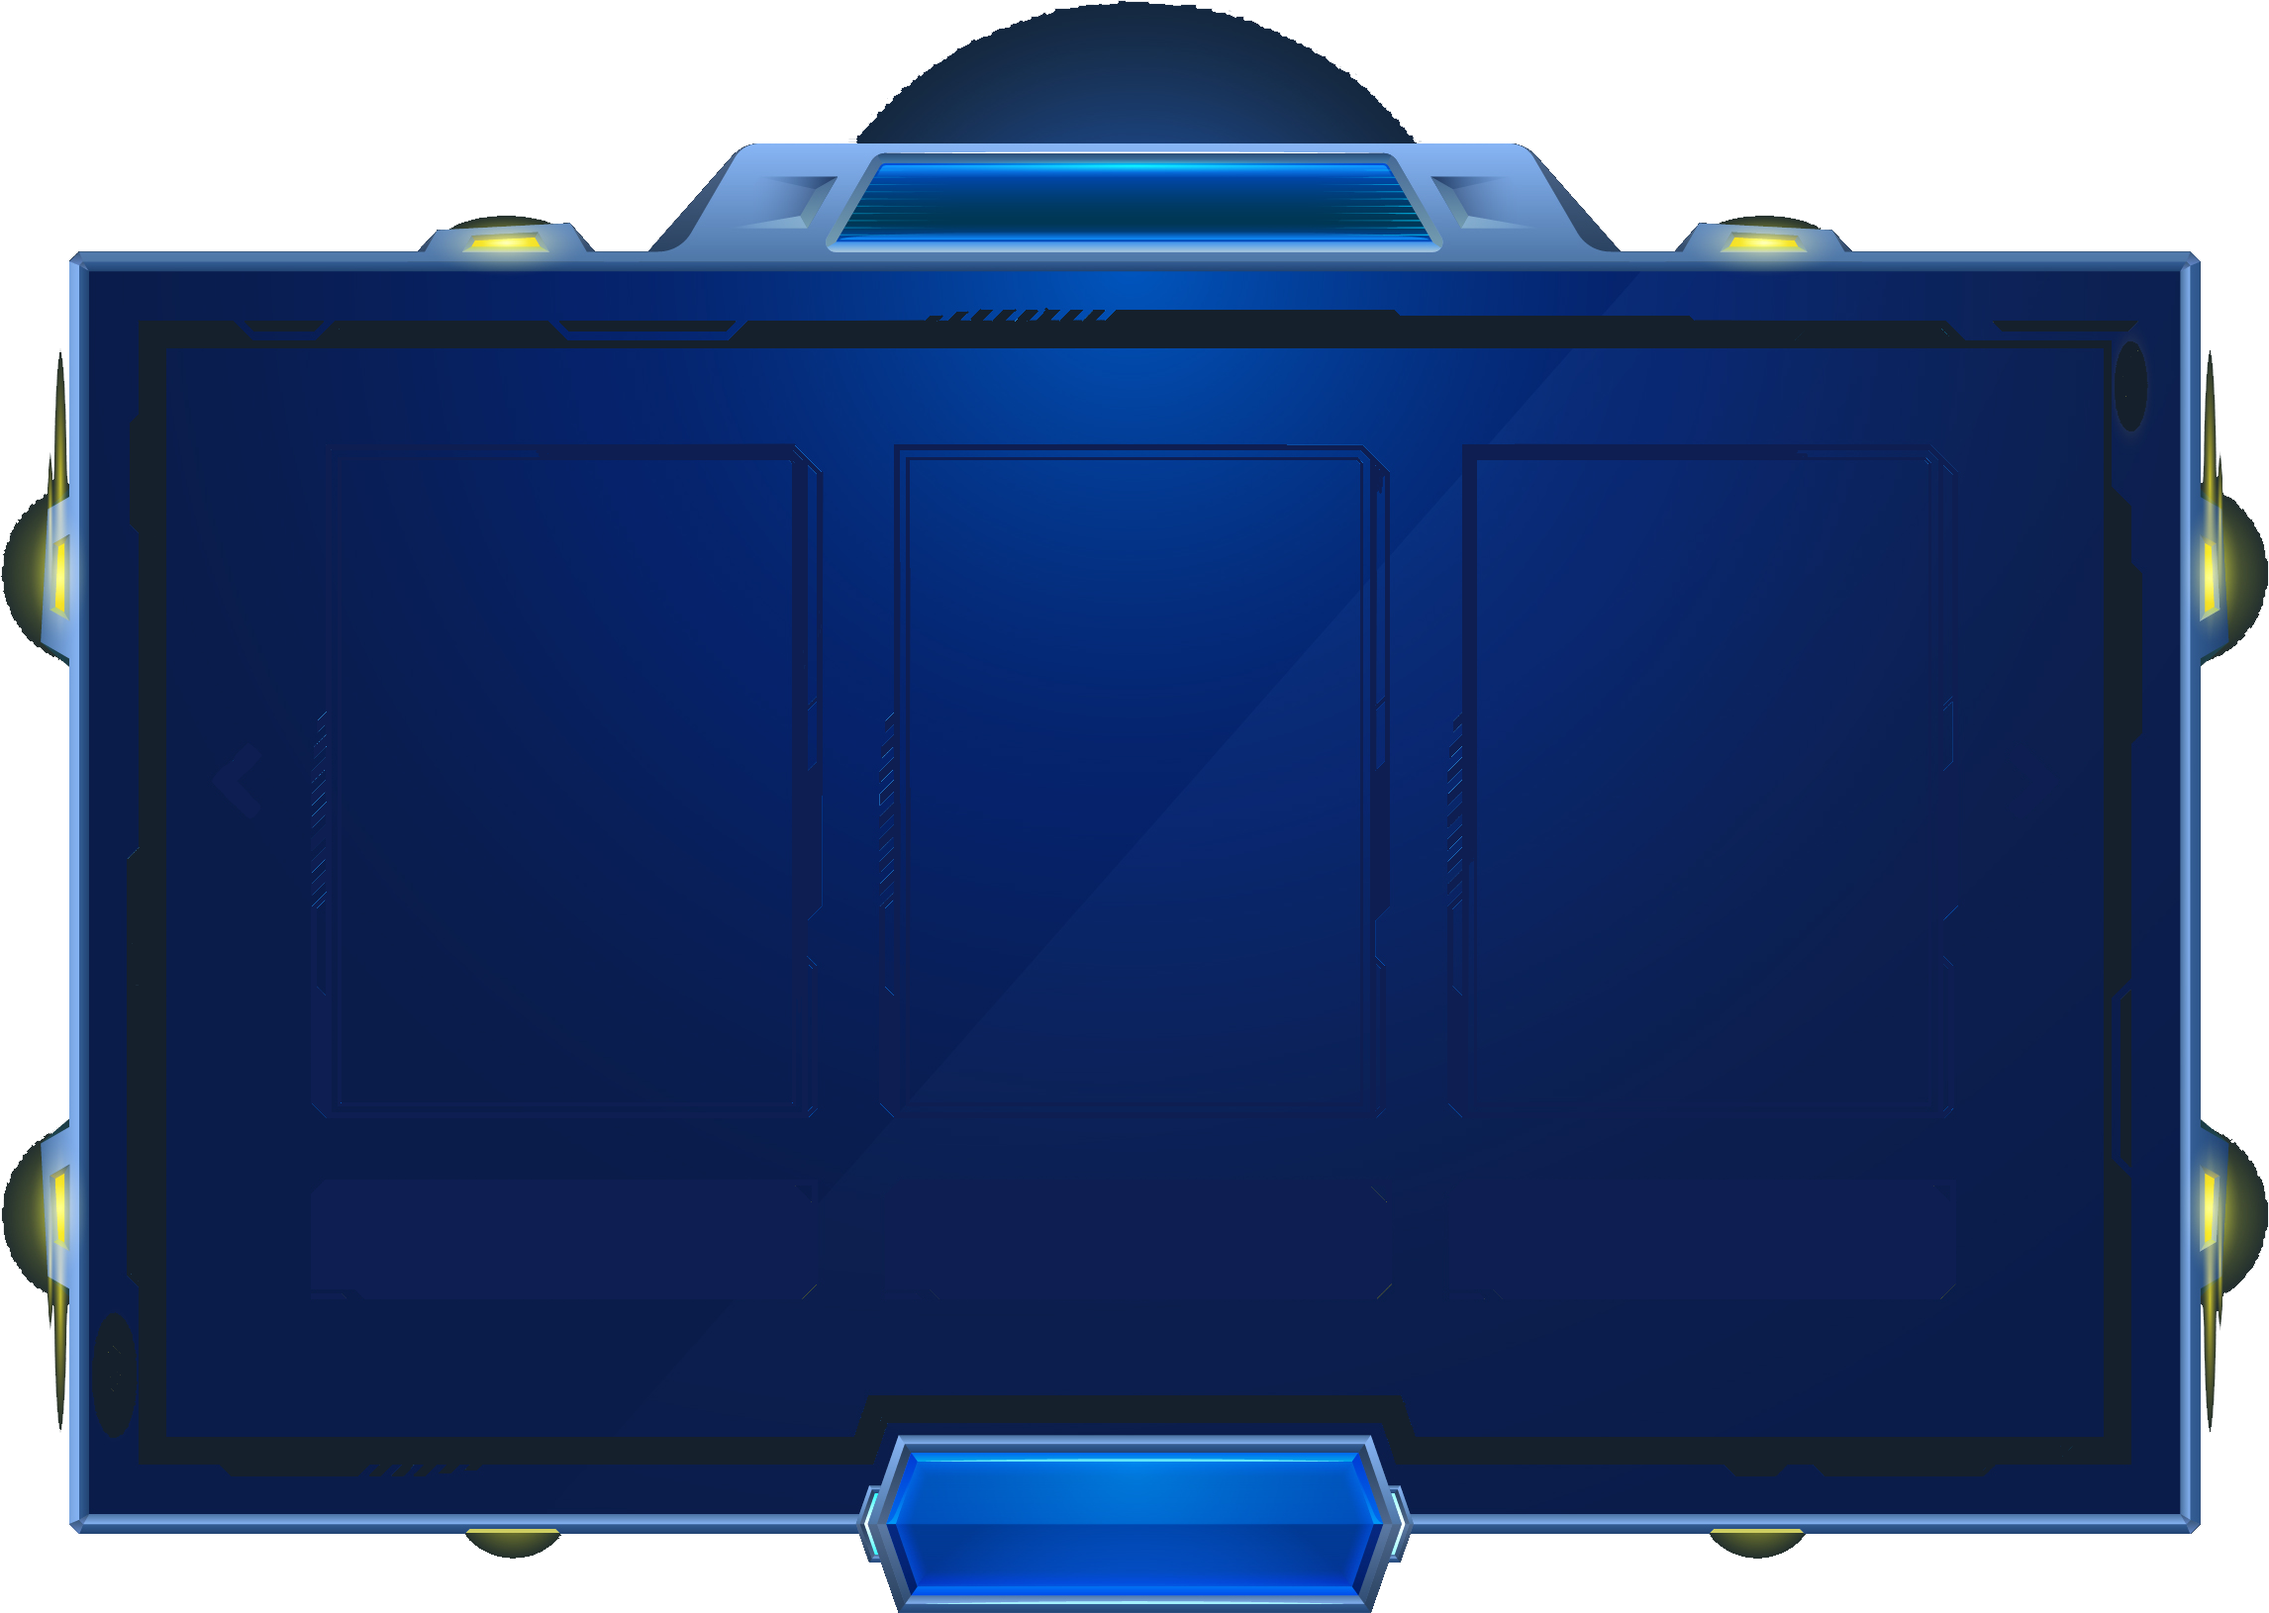
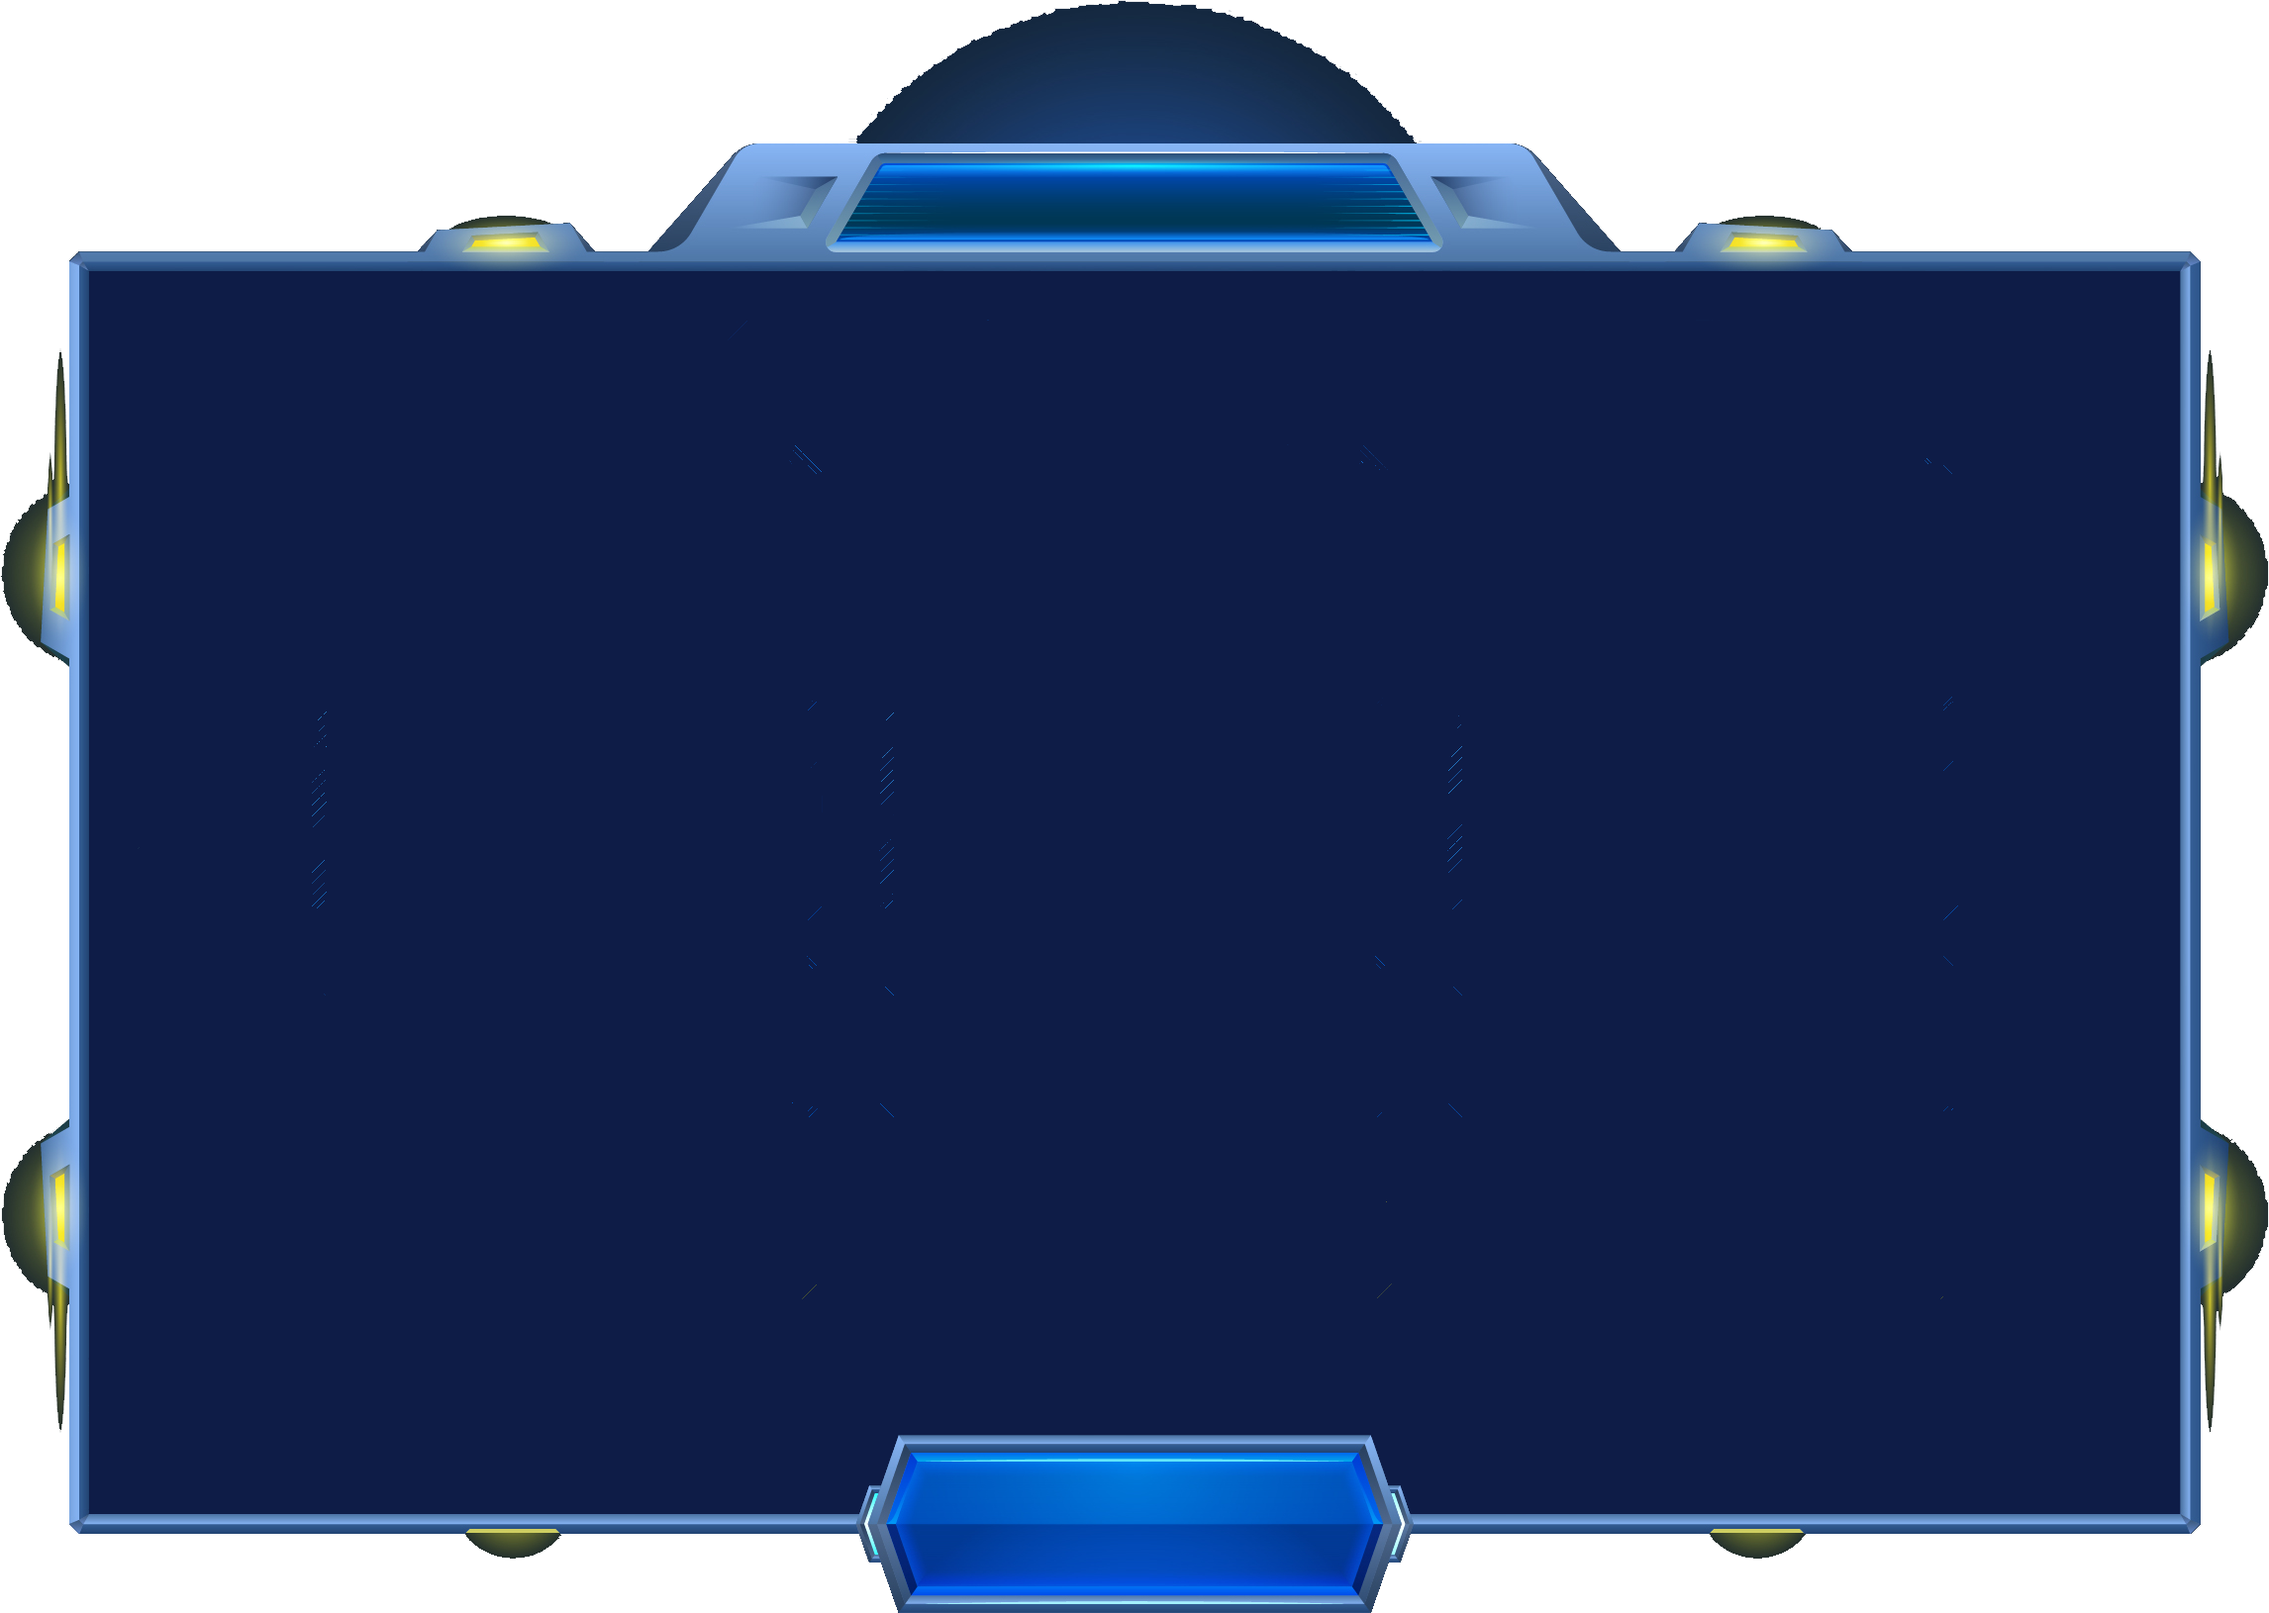
Update player cards style after player creation
- after user clicks create player btn display player information module
- adjustments made to layout
    - increased mark profile imgs
    - spacing between elements in the player card

Changed region(s): [[0.031, 0.1534, 0.9603, 0.9202]]

diff --git a/style/styles.css b/style/styles.css
@@ -97,7 +97,6 @@ body,
   display: flex;
   justify-content: center;
   align-self: center;
-  border-radius: 100px;
   width: 100px;
   height: 100px;
   background-image: url("/imgs/ui/profile-deactive.png");
@@ -238,21 +237,40 @@ body,
 .player-x-card,
 .player-o-card {
   display: none;
-  padding: 20px;
-  border: 2px solid gray;
-  border-radius: 10px;
+  flex-direction: column;
+  background-image: url("/imgs/ui/deactive-card.png");
+  background-repeat: no-repeat;
+  background-position: center;
+  background-size: 100% 100%;
+  padding-left: 70px;
+  padding-right: 70px;
+  justify-content: center;
+  align-items: center;
+  padding-top: 100px;
   gap: 20px;
+  width: 300px;
+  height: 475px;
+  color: rgb(244, 244, 82);
+}
+
+.player-x-card {
+  grid-area: cardX;
+}
+
+.player-o-card {
+  grid-area: cardO;
 }
 
 .x-card-profile,
 .o-card-profile {
   display: flex;
   justify-content: center;
-  align-self: center;
-  border-radius: 100px;
-  border: 2px solid gray;
-  width: 100px;
-  height: 100px;
+  background-image: url("/imgs/ui/profile-deactive.png");
+  background-repeat: no-repeat;
+  background-position: center;
+  background-size: 100% 100%;
+  width: 200px;
+  height: 200px;
 }
 
 .x-card-img,
@@ -260,7 +278,7 @@ body,
 .o-card-img,
 .o-card-img:hover {
   align-self: center;
-  border-color: rgba(255, 255, 255, 0);
+  border-color: transparent;
 }
 
 .x-card-name,
@@ -268,9 +286,12 @@ body,
   align-self: center;
 }
 
-.x-turn,
-.o-turn {
-  display: none;
+.x-turn-text,
+.o-turn-text {
+  margin-top: 100px;
+  content: "Your Turn";
+  color: transparent;
+  justify-self: flex-end;
 }
 
 .x-stats,
